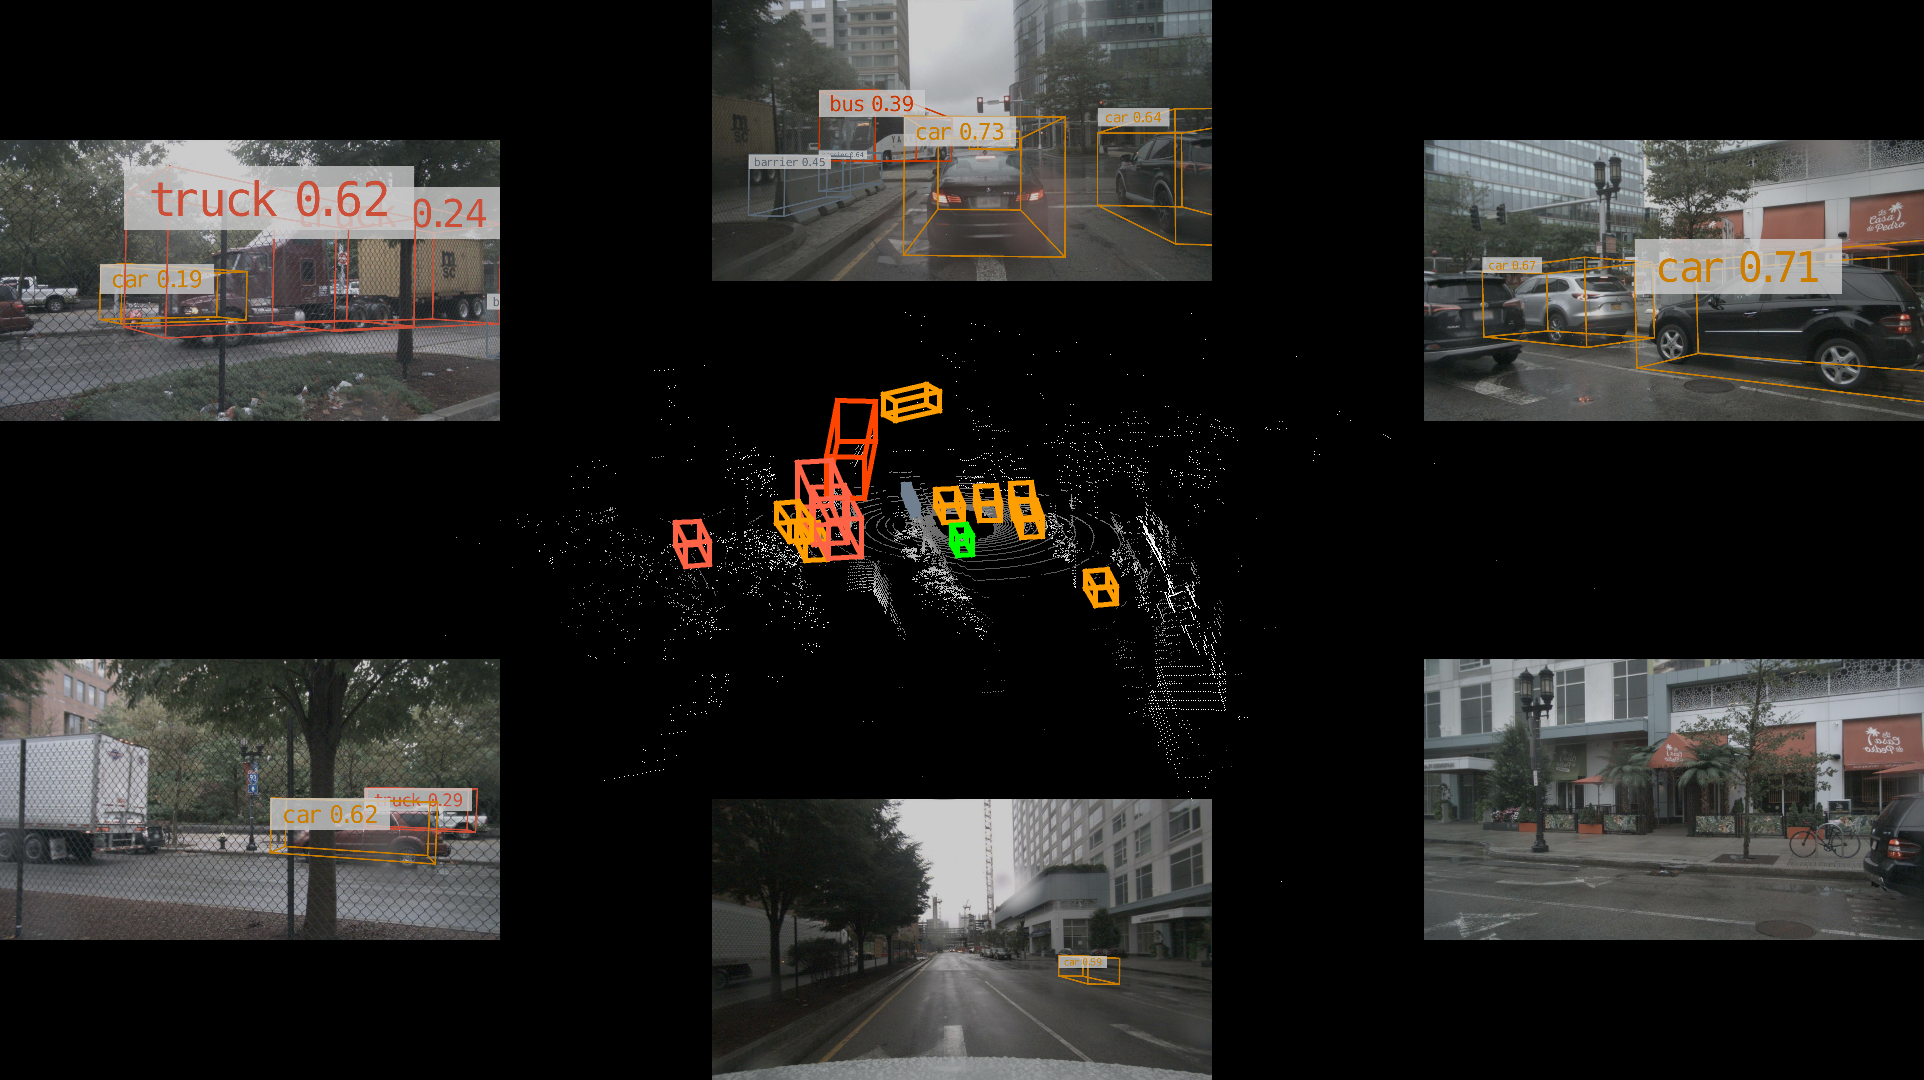
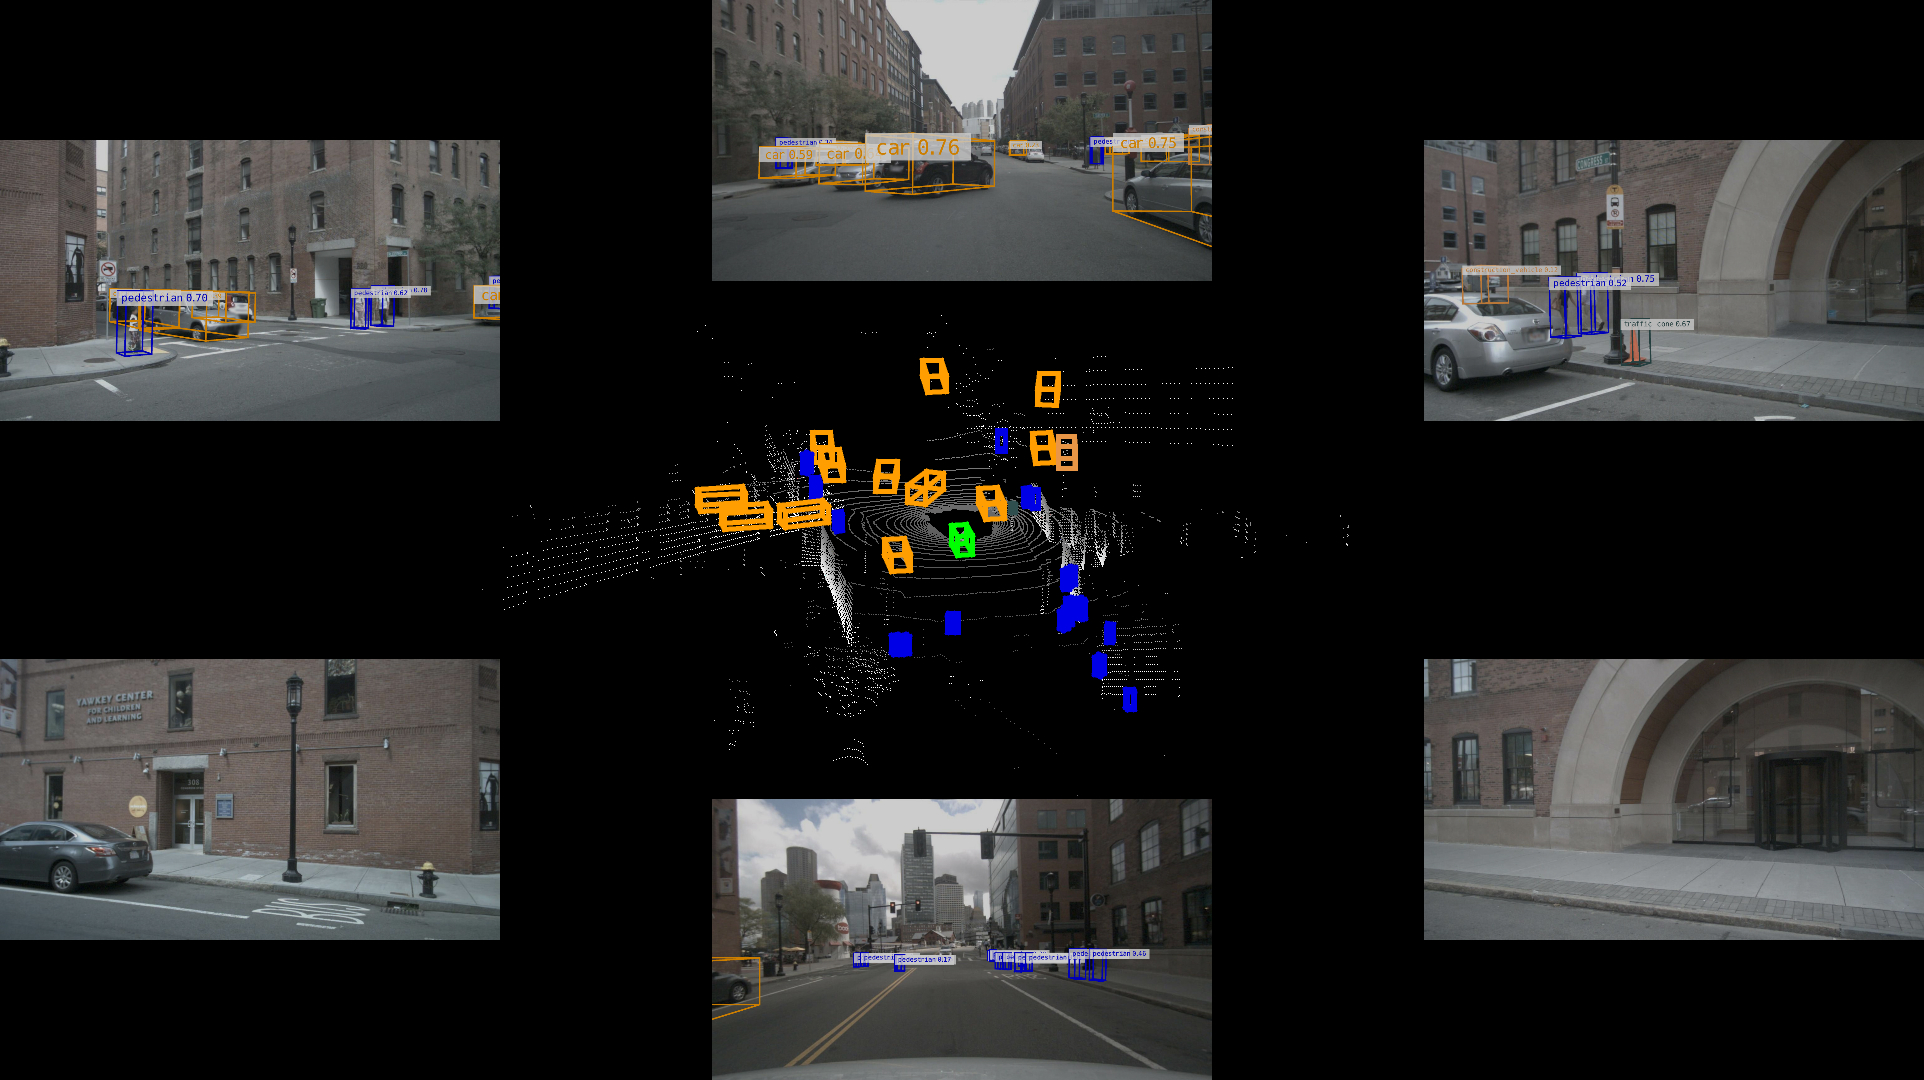
优化bevfusion加载图像的耗时问题

diff --git a/BEVFusion-ROS-TensorRT/src_ros/bevfusion_ros.cpp b/BEVFusion-ROS-TensorRT/src_ros/bevfusion_ros.cpp
@@ -2,6 +2,9 @@
 #define STB_IMAGE_WRITE_IMPLEMENTATION  // 预处理器宏定义
 
 #include "bevfusion_ros.hpp"
+#include "ros/ros.h"
+#include <tf/transform_listener.h>
+#include <tf/transform_broadcaster.h>
 
 RosNode::RosNode(const std::string model_name, const std::string  precision)
   : model_name_(model_name), precision_(precision)
@@ -9,7 +12,8 @@ RosNode::RosNode(const std::string model_name, const std::string  precision)
   
   bevfusion_node_.reset(new BEVFusionNode(model_name_, precision_));
   getTopicName();
-  pub_img_ = n_.advertise<sensor_msgs::Image>("/bevfusion/image_raw", 10);
+  pub_img_ = n_.advertise<sensor_msgs::Image>("/detection/bevfusion/bevfusion_image", 10);
+  pub_obj_ = n_.advertise<autoware_msgs::DetectedObjectArray>("/detection/bevfusion/objects", 10);
   sub_cloud_.subscribe(n_, topic_cloud_, 10);
   sub_f_img_.subscribe(n_, topic_img_f_, 10);
   sub_b_img_.subscribe(n_, topic_img_b_, 10);
@@ -26,7 +30,16 @@ RosNode::RosNode(const std::string model_name, const std::string  precision)
   
   sync_->registerCallback(boost::bind(&RosNode::callback,this, _1, _2,_3, _4, _5, _6,_7)); // 绑定回调函数
   
+  size_t img_size = 1600 * 900 * 3; // 计算所需内存大小
+  front_buffer.resize(img_size);          // 确保容量足够
+  front_left_buffer.resize(img_size);
+  front_right_buffer.resize(img_size);
+  back_buffer.resize(img_size);
+  back_left_buffer.resize(img_size);
+  back_right_buffer.resize(img_size);
+  images_.reserve(6);
   }
+
 
 void RosNode::getTopicName()
 {
@@ -51,23 +64,33 @@ void RosNode::callback(const sensor_msgs::PointCloud2ConstPtr& msg_cloud,
   const sensor_msgs::ImageConstPtr& msg_bl_img,
   const sensor_msgs::ImageConstPtr& msg_br_img)
 {
+  auto start = ros::Time::now();
+  // 将 cv::Mat 对象 front_img 的原始像素数据 逐字节复制到预分配的 front_buffer 缓冲区 中。
+  // 这里front_img.data为起始位置， front_img.data + front_size为结束位置，而 front_buffer.data()为目标起始位置。
+  // 结束地址 = 起始地址 + (总像素数 × 每像素字节数) = front_img.data + front_size
+  memcpy(front_buffer.data(), msg_f_img->data.data(), image_size);
+  memcpy(front_left_buffer.data(), msg_fl_img->data.data(), image_size);
+  memcpy(front_right_buffer.data(), msg_fr_img->data.data(), image_size);
+  memcpy(back_buffer.data(), msg_b_img->data.data(), image_size);
+  memcpy(back_left_buffer.data(), msg_bl_img->data.data(), image_size);
+  memcpy(back_right_buffer.data(), msg_br_img->data.data(), image_size);
+  // ros::Time memcpy = ros::Time::now();
+  // std::cout << "memcpy time: " << (memcpy - start).toSec() * 1000 << " ms\n";
+
+  // 将缓冲区加入 images_
+  images_.clear();
+  images_.push_back(front_buffer);
+  images_.push_back(front_right_buffer);
+  images_.push_back(front_left_buffer);
+  images_.push_back(back_buffer);
+  images_.push_back(back_right_buffer);
+  images_.push_back(back_left_buffer);
+
+  ros::Time image_end = ros::Time::now();
+  std::cout << "image preprocessing time: " << (image_end - start).toSec() * 1000 << " ms\n";
   
-  cv::Mat f_img, fl_img, fr_img, b_img, bl_img, br_img;
   pcl::PointCloud<pcl::PointXYZI>::Ptr cloud_ptr(new pcl::PointCloud<pcl::PointXYZI>());
-  
   pcl::fromROSMsg(*msg_cloud, *cloud_ptr);
-  f_img  = cv_bridge::toCvShare(msg_f_img , "bgr8")->image;
-  fl_img = cv_bridge::toCvShare(msg_fl_img, "bgr8")->image;
-  fr_img = cv_bridge::toCvShare(msg_fr_img, "bgr8")->image;
-  b_img  = cv_bridge::toCvShare(msg_b_img , "bgr8")->image;
-  bl_img = cv_bridge::toCvShare(msg_bl_img, "bgr8")->image;
-  br_img = cv_bridge::toCvShare(msg_br_img, "bgr8")->image;
-  
-  // 这里可能是ros包中前向左右图搞反了, 所以交换fr_img, fl_img的位置
-  std::vector<unsigned char *> images = load_images(f_img, fr_img, fl_img, b_img, bl_img, br_img);
-  
-  // printf("size: %ld \n", cloud_ptr->points.size());
-  
   int lidar_num = cloud_ptr->points.size();
   float lidar_arr[lidar_num * 5];
   for(size_t i = 0; i < cloud_ptr->points.size(); ++i )
@@ -80,12 +103,61 @@ void RosNode::callback(const sensor_msgs::PointCloud2ConstPtr& msg_cloud,
     // lidar_arr[index + 4] = cloud->points[i].time;
     lidar_arr[index + 4] = 0;
   }
-  bevfusion_node_->Inference(images, lidar_arr, cloud_ptr->points.size());
-  free_images(images);
+  ros::Time lidar_end = ros::Time::now();
+  std::cout << "lidar preprocessing time: " << (lidar_end - image_end).toSec() * 1000 << " ms\n";
+  auto boxes = bevfusion_node_->Inference(images_, lidar_arr, cloud_ptr->points.size());
+  pubDetected(boxes, msg_cloud);
 
-  cv::Mat img = cv::imread((pkg_path + "/configs/cuda-bevfusion.jpg").c_str());
-  cv::resize(img, img, cv::Size(img.size().width /2, img.size().height /2));
-  sensor_msgs::Image::Ptr msg_img_new; 
-  msg_img_new = cv_bridge::CvImage(std_msgs::Header(), "bgr8", img).toImageMsg();
-  pub_img_.publish(msg_img_new);
+  // cv::Mat img = cv::imread((pkg_path + "/configs/cuda-bevfusion.jpg").c_str());
+  // cv::resize(img, img, cv::Size(img.size().width /2, img.size().height /2));
+  // sensor_msgs::Image::Ptr msg_img_new; 
+  // msg_img_new = cv_bridge::CvImage(std_msgs::Header(), "bgr8", img).toImageMsg();
+  // pub_img_.publish(msg_img_new);
+  auto end = ros::Time::now();
+  std::cout << "Inference time: " << (end - start).toSec() * 1000 << " ms\n";
+}
+
+void RosNode::pubDetected(std::vector<bevfusion::head::transbbox::BoundingBox>& boxes, const sensor_msgs::PointCloud2ConstPtr& msg_cloud) {
+    autoware_msgs::DetectedObjectArray objects;
+    objects.header = msg_cloud->header;
+
+    for (const auto& box : boxes) {
+        autoware_msgs::DetectedObject object;  // 每次循环重新创建对象
+        object.header = msg_cloud->header;
+        object.valid = true;
+
+        // 坐标与尺寸转换
+        object.pose.position.x = box.position.x;
+        object.pose.position.y = box.position.y;
+        object.pose.position.z = box.position.z;
+        object.dimensions.x = box.size.w;
+        object.dimensions.y = box.size.l;
+        object.dimensions.z = box.size.h;
+
+        // 方向转换
+        const float yaw = box.z_rotation;
+        geometry_msgs::Quaternion q = tf::createQuaternionMsgFromYaw(yaw);
+        object.pose.orientation = q;
+
+        // 速度与置信度
+        object.velocity.linear.x = box.velocity.vx;
+        object.velocity.linear.y = box.velocity.vy;
+        object.score = box.score;
+
+        // 类别标签
+        static const char* label_names[] = {
+            "car", "truck", "construction_vehicle", "bus", "trailer",
+            "barrier", "motorcycle", "bicycle", "pedestrian", "traffic_cone"
+        };
+        if (box.id < sizeof(label_names)/sizeof(label_names[0])) {
+            object.label = label_names[box.id];
+        } else {
+            object.label = "unknown";  // 处理越界情况
+        }
+
+        objects.objects.push_back(object);
+    }
+
+    // 发布消息
+    pub_obj_.publish(objects);
 }

diff --git a/BEVFusion-ROS-TensorRT/src_ros/bevfusion_plugin.cpp b/BEVFusion-ROS-TensorRT/src_ros/bevfusion_plugin.cpp
@@ -1,4 +1,5 @@
 #include "bevfusion_plugin.hpp"
+#include "ros/ros.h"
 
 // 打印4*4的参数
 void printParam(float *parm, int const begin, int const end)
@@ -186,6 +187,8 @@ std::shared_ptr<bevfusion::Core> create_core(const std::string& model, const std
 BEVFusionNode::BEVFusionNode(const std::string& model_name, const std::string& precision)
   : model_name_(model_name), precision_(precision)
 { 
+  ros::Time start = ros::Time::now();
+
   config_path = pkg_path + "/configs";
 
   cloud_.reset(new pcl::PointCloud<PointT>());
@@ -225,11 +228,11 @@ BEVFusionNode::BEVFusionNode(const std::string& model_name, const std::string& p
 
   core->update( cam2lidar, cam_intrinsics, lidar2img, img_aug_mat, stream);
   core->free_excess_memory();  // 可以注释掉这句
-
+  std::cout << "Initialize time:" << (ros::Time::now() - start).toSec() << "s "<< std::endl;
 }
 
 
-void BEVFusionNode::Inference(const std::vector<unsigned char *>& images_data, float *lidar_arr, int lidar_num)
+std::vector<bevfusion::head::transbbox::BoundingBox> BEVFusionNode::Inference(const std::vector<std::vector<unsigned char> > images_data, float *lidar_arr, int lidar_num)
 { 
   
   std::vector<int64_t> lidar_shape{lidar_num, 5};
@@ -243,7 +246,9 @@ void BEVFusionNode::Inference(const std::vector<unsigned char *>& images_data, f
   auto bboxes =
     core->forward((const unsigned char**)images_data.data(), lidar_half.ptr<nvtype::half>(), lidar_data.size(0), stream);
   
-  visualize(bboxes, lidar_half, images_data, lidar2image, "cuda-bevfusion.jpg", stream);
+  // visualize(bboxes, lidar_half, images_data, lidar2image, "cuda-bevfusion.jpg", stream);
+
+  return bboxes;
 }
 
 void BEVFusionNode::visualize(const std::vector<bevfusion::head::transbbox::BoundingBox>& bboxes, const nv::Tensor& lidar_points,
@@ -252,6 +257,7 @@ void BEVFusionNode::visualize(const std::vector<bevfusion::head::transbbox::Boun
                       {
   std::vector<nv::Prediction> predictions(bboxes.size());
   memcpy(predictions.data(), bboxes.data(), bboxes.size() * sizeof(nv::Prediction));
+  ros::Time start = ros::Time::now();
 
   int padding = 300;
   int lidar_size = 1024;
@@ -329,6 +335,9 @@ void BEVFusionNode::visualize(const std::vector<bevfusion::head::transbbox::Boun
     checkRuntime(cudaStreamSynchronize(stream));
   }
 
+  ros::Time end = ros::Time::now();
+  std::cout << "Visualize time: " << (end - start).toSec() * 1000 << " ms" << std::endl;
+  // printf("Visualize time: %.3f ms\n", (end - start).toSec() * 1000);
   // 保存图像
   // printf("Save to %s\n", (pkg_path + "/configs/" + save_path).c_str());
   stbi_write_jpg((pkg_path + "/configs/" + save_path).c_str(), scene_device_image.size(1), scene_device_image.size(0), 3,

diff --git a/BEVFusion-ROS-TensorRT/include_ros/bevfusion_ros.hpp b/BEVFusion-ROS-TensorRT/include_ros/bevfusion_ros.hpp
@@ -14,6 +14,8 @@
 #include <opencv2/opencv.hpp>
 #include <cv_bridge/cv_bridge.h>
 #include <sensor_msgs/Image.h>
+#include "autoware_msgs/DetectedObjectArray.h"
+#include "autoware_msgs/DetectedObject.h"
 
 // 点云
 #include <pcl/io/pcd_io.h>
@@ -28,10 +30,23 @@ class RosNode
   std::string model_name_, precision_;
   ros::NodeHandle n_;
   ros::Publisher pub_img_;
+  ros::Publisher pub_obj_;
 
   std::string topic_cloud_;
   std::string topic_img_f_, topic_img_fl_, topic_img_fr_;
   std::string topic_img_b_, topic_img_bl_, topic_img_br_;
+
+    // 预分配的固定大小内存缓冲区（假设每张图像尺寸为 1920x1080x3 字节）
+    std::vector<unsigned char> front_buffer;          // 前向摄像头
+    std::vector<unsigned char> front_left_buffer;     // 前左
+    std::vector<unsigned char> front_right_buffer;    // 前右
+    std::vector<unsigned char> back_buffer;           // 后向
+    std::vector<unsigned char> back_left_buffer;      // 后左
+    std::vector<unsigned char> back_right_buffer;     // 后右
+
+    // 存储图像数据的列表（复用缓冲区）
+    std::vector<std::vector<unsigned char>> images_;  // 预分配容量为6
+    size_t image_size;   // 图像尺寸,若不同camera的图像尺寸不同，则需要定义多个
 
 
   message_filters::Subscriber<sensor_msgs::PointCloud2> sub_cloud_; 
@@ -64,6 +79,7 @@ class RosNode
     const sensor_msgs::ImageConstPtr& msg_b_img,
     const sensor_msgs::ImageConstPtr& msg_bl_img,
     const sensor_msgs::ImageConstPtr& msg_br_img);
+  void pubDetected(std::vector<bevfusion::head::transbbox::BoundingBox>& boxes, const sensor_msgs::PointCloud2ConstPtr& msg_cloud);
 };
 
 #endif

diff --git a/BEVFusion-ROS-TensorRT/include_ros/bevfusion_plugin.hpp b/BEVFusion-ROS-TensorRT/include_ros/bevfusion_plugin.hpp
@@ -59,7 +59,7 @@ std::vector<unsigned char*> load_images(
 void free_images(std::vector<unsigned char*>& images);
 
 void visualize(const std::vector<bevfusion::head::transbbox::BoundingBox>& bboxes, const nv::Tensor& lidar_points,
-                      const std::vector<unsigned char*> images, const nv::Tensor& lidar2image, const std::string& save_path,
+                      const std::vector<std::vector<unsigned char>> images, const nv::Tensor& lidar2image, const std::string& save_path,
                       cudaStream_t stream);
 
 std::shared_ptr<bevfusion::Core> create_core(const std::string& model, const std::string& precision);
@@ -100,7 +100,7 @@ class BEVFusionNode
 	
 	// 推理
 	// void Inference(const std::vector<unsigned char *>& images_data, const pcl::PointCloud<PointT>::Ptr &cloud);
-	void Inference(const std::vector<unsigned char *>& images_data, float *lidar_arr, int lidar_num);
+	std::vector<bevfusion::head::transbbox::BoundingBox> Inference(const std::vector<std::vector<unsigned char> > images_data, float *lidar_arr, int lidar_num);
 	
 
 	// 可视化

diff --git a/detected_objects_visualizer/src/visualize_detected_objects.cpp b/detected_objects_visualizer/src/visualize_detected_objects.cpp
@@ -641,7 +641,7 @@ VisualizeDetectedObjects::ObjectsToLabels(const autoware_msgs::DetectedObjectArr
 
 bool VisualizeDetectedObjects::IsObjectValid(const autoware_msgs::DetectedObject &in_object)
 {
-  if (!in_object.valid ||
+  if (
       std::isnan(in_object.pose.orientation.x) ||
       std::isnan(in_object.pose.orientation.y) ||
       std::isnan(in_object.pose.orientation.z) ||
